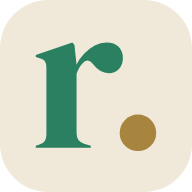
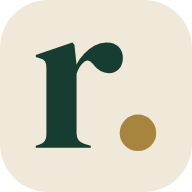
Icône : « r » de nouveau dans le vert de l'app (#173d32)
Claude-Session: https://claude.ai/code/session_01VWJn8DpqDdrMmeahULjp92

Changed region(s): [[0.1875, 0.2188, 0.6562, 0.7812]]

diff --git a/CLAUDE.md b/CLAUDE.md
@@ -183,7 +183,7 @@ Espace/Entrée/flèches/1-4 pour retourner et noter, Ctrl+Z pour annuler ; lettr
 - **Couleur de contraste supprimée** : le vert est imposé. Le script de la couleur est neutralisé (`apply()` et `addSettings()` retournent tout de suite, la clé `revis-accent` est effacée au chargement) ; la ligne et la sous-page `acc` ont disparu des Réglages.
 - **Typographie** : New York (`ui-serif`) pour les titres `h1` et le logo, SF Pro pour le reste. Titre de l'accueil : `rev<span class="rvd">.</span>`.
 - **Matières** : surfaces ivoire quasi pleines pour le contenu (`--gp-fill` .94) ; verre seulement sur la barre du haut, la barre du bas et les feuilles. Fond : voile vert et voile laiton très discrets (`--nv-bg`), **taches animées `#mesh i` supprimées** (`display:none`).
-- **Icône** (18/10/2026, monogramme « r. » choisi par Idriss ; DM Serif Display, police OFL, tracé converti en chemin ; fond ivoire uni `#f0e9d9`, « r » vert moyen `#2a8060` (luminance 0,168, **la même que le rose du cerveau d'Occlu `#C83D70`** ; le vert profond `#173d32`, luminance 0,037, aurait disparu sur un fond noir et iOS refuse alors probablement d'inverser), point laiton `#a8853f`). **Construite comme celle d'Occlu** (dépôt `bertOPLM23/Occlu`, dont l'icône s'assombrit sur l'iPad d'Idriss) : `apple-touch-icon.png` 180×180 RGB opaque ; **`manifest.webmanifest`** (nom rev., `display: standalone`, fond `#f7f3ea`) déclarant `icon-192.png` et `icon-512.png` (RGBA, carré arrondi à 25 %, coins transparents), `icon-maskable-512.png` (opaque plein cadre, dessin réduit à 78 %, `purpose: maskable`) et `favicon.svg` (même carré ivoire arrondi) ; balises `apple-mobile-web-app-capable` et `mobile-web-app-capable` ; `<link rel="icon">` et `apple-touch-icon` pointent vers les fichiers. **Analyse du 18/10/2026** : les `apple-touch-icon` d'Occlu et de rev. étaient alors du même type (180 RGB opaque, fond uni) ; la seule différence restante était le manifeste (+ icônes à transparence), le service worker d'Occlu et ces balises. Essais précédents, tous ratés (sans manifeste) : verte opaque en dégradé ; entièrement transparente (fond noir même en clair) ; ivoire en dégradé ; ivoire + coins transparents ; ivoire uni ; ivoire uni en fichier séparé. **Étape « manifeste » (vert profond) : ratée. Étape « vert moyen » : ratée. Étape « service worker vide » + balises `apple-mobile-web-app-status-bar-style` et `description` : ratée, mais **indice décisif d'Idriss : l'icône s'assombrit (voile noir) puis redevient normale** → iOS tente bien la variante sombre puis la rejette. Différence mesurée : le dessin d'Occlu couvre 27 % de l'icône (boîte x 24-155, y 39-140 sur 180), le « r. » de rev. seulement 7 % (boîte 51-127 × 50-119). **Étape « monogramme agrandi »** (échelle 1,6, centré : boîte x 33-146, y 39-141, couverture 15 %) : à confirmer.** Il doit retirer rev. de l'écran d'accueil puis la rajouter à chaque changement d'icône.
+- **Icône** (18/10/2026, monogramme « r. » choisi par Idriss ; DM Serif Display, police OFL, tracé converti en chemin ; fond ivoire uni `#f0e9d9`, « r » vert de l'app `#173d32` (un vert moyen `#2a8060` a été essayé, voir l'historique), point laiton `#a8853f`). **Construite comme celle d'Occlu** (dépôt `bertOPLM23/Occlu`, dont l'icône s'assombrit sur l'iPad d'Idriss) : `apple-touch-icon.png` 180×180 RGB opaque ; **`manifest.webmanifest`** (nom rev., `display: standalone`, fond `#f7f3ea`) déclarant `icon-192.png` et `icon-512.png` (RGBA, carré arrondi à 25 %, coins transparents), `icon-maskable-512.png` (opaque plein cadre, dessin réduit à 78 %, `purpose: maskable`) et `favicon.svg` (même carré ivoire arrondi) ; balises `apple-mobile-web-app-capable` et `mobile-web-app-capable` ; `<link rel="icon">` et `apple-touch-icon` pointent vers les fichiers. **Analyse du 18/10/2026** : les `apple-touch-icon` d'Occlu et de rev. étaient alors du même type (180 RGB opaque, fond uni) ; la seule différence restante était le manifeste (+ icônes à transparence), le service worker d'Occlu et ces balises. Essais précédents, tous ratés (sans manifeste) : verte opaque en dégradé ; entièrement transparente (fond noir même en clair) ; ivoire en dégradé ; ivoire + coins transparents ; ivoire uni ; ivoire uni en fichier séparé. **Étape « manifeste » (vert profond) : ratée. Étape « vert moyen » : ratée. Étape « service worker vide » + balises `apple-mobile-web-app-status-bar-style` et `description` : ratée, mais **indice décisif d'Idriss : l'icône s'assombrit (voile noir) puis redevient normale** → iOS tente bien la variante sombre puis la rejette. Différence mesurée : le dessin d'Occlu couvre 27 % de l'icône (boîte x 24-155, y 39-140 sur 180), le « r. » de rev. seulement 7 % (boîte 51-127 × 50-119). **Étape « monogramme agrandi »** (échelle 1,6, centré : boîte x 33-146, y 39-141, couverture 15 %) : **RÉUSSIE (confirmé par Idriss le 18/10/2026)** — la cause était la taille du dessin. Puis, à sa demande, retour du « r » au vert de l'app `#173d32` (à la place du vert moyen) : **à confirmer** que la variante sombre tient toujours ; sinon revenir au vert moyen `#2a8060`.** Il doit retirer rev. de l'écran d'accueil puis la rajouter à chaque changement d'icône.
 - Nom : `<title>` et `apple-mobile-web-app-title` = « rev. ». Le nom du projet Supabase (« Mes révisions ») ne change pas.
 - Contraste mesuré le 18/10/2026 (iPhone 390 px, clair et sombre : accueil, dossier, flashcard recto/verso, QCM avant/après, Réglages, Statistiques) : aucun texte sous 4,5:1, sauf le point laiton du logo (décoratif, 44 px).
 
